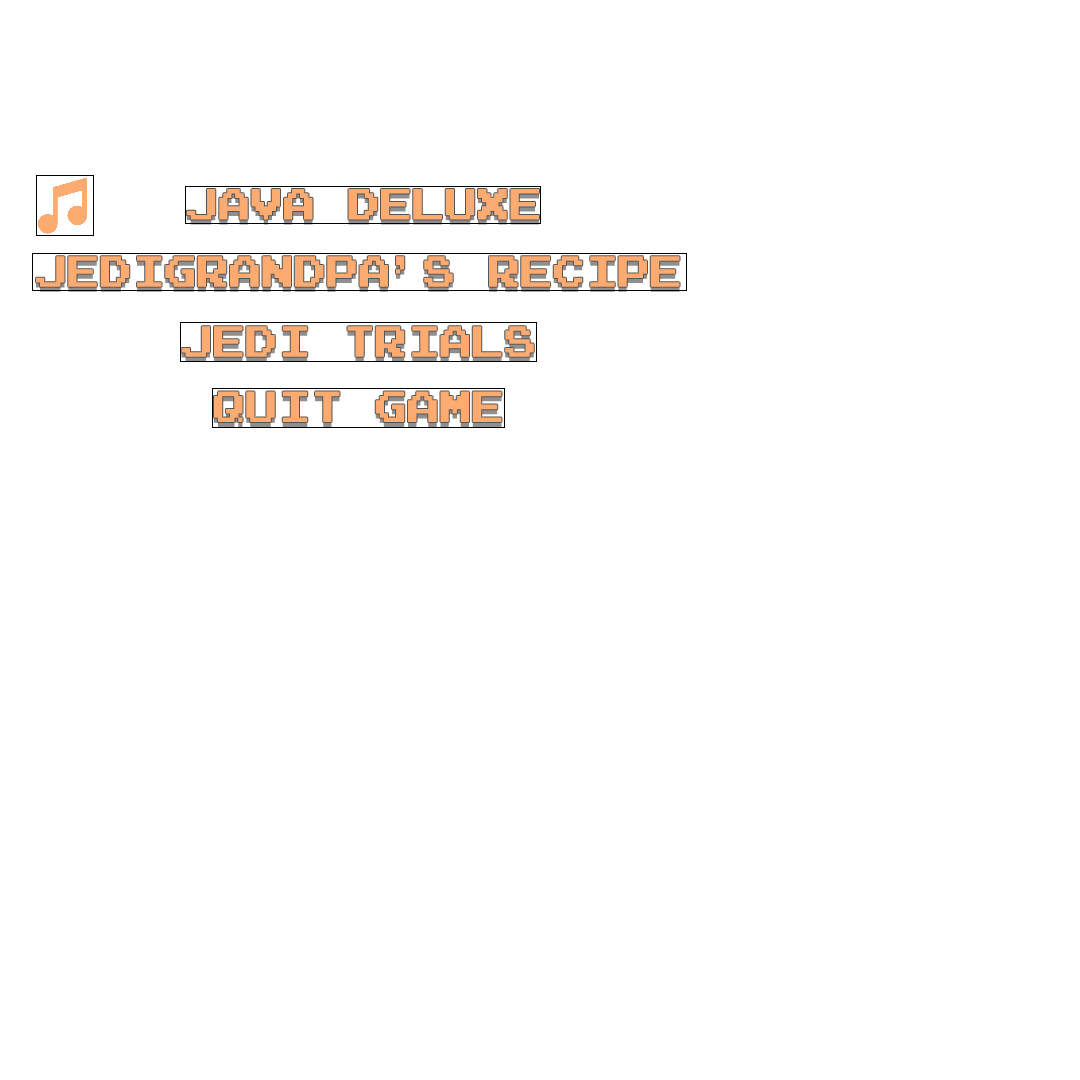
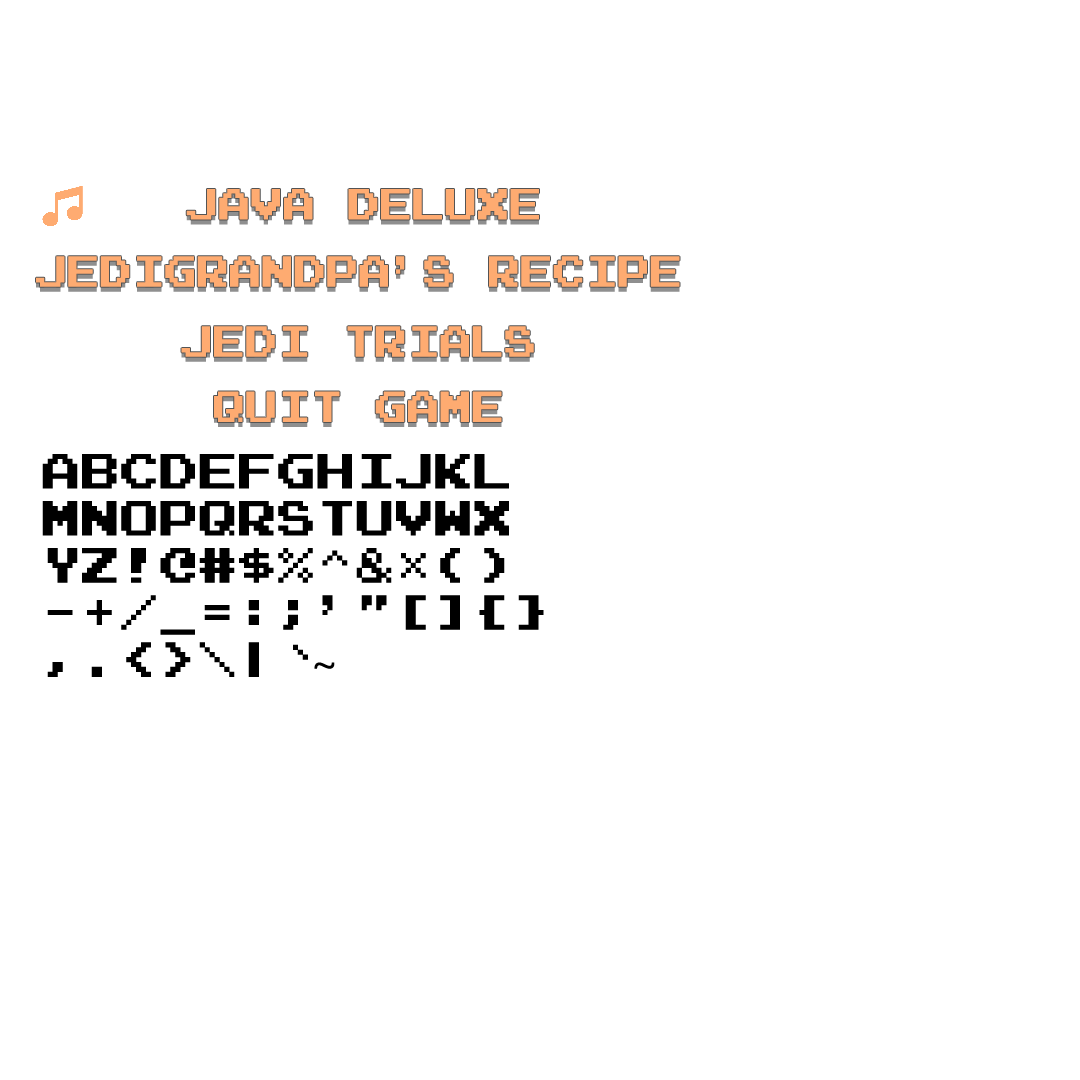
MainMenu State Update

Changed region(s): [[0.0306, 0.3972, 0.5194, 0.6417], [0.0306, 0.1528, 0.0917, 0.2139], [0.0306, 0.6111, 0.0611, 0.6417]]

diff --git a/core/src/com/codex/learning/states/MenuState.java b/core/src/com/codex/learning/states/MenuState.java
@@ -8,11 +8,13 @@ import com.badlogic.gdx.graphics.g2d.TextureRegion;
 import com.badlogic.gdx.physics.box2d.Box2DDebugRenderer;
 import com.codex.learning.utility.Constants;
 import com.codex.learning.utility.Manager;
+import com.sun.org.apache.bcel.internal.Const;
+import jdk.vm.ci.meta.Constant;
 
 public class MenuState extends State {
 
     private TextureRegion mainMenu;
-    private Texture musicLogo, javaDeluxe, grandpaRecipe, jediTrial, quitGame;
+    private TextureRegion musicLogo, javaDeluxe, grandpaRecipe, jediTrial, quitGame;
     private TextureRegion background;
     private OrthographicCamera camera;
     private Box2DDebugRenderer b2dr;
@@ -24,6 +26,12 @@ public class MenuState extends State {
 
         background = new TextureRegion(new Texture(Constants.BACKGROUND_PATH));
         mainMenu = new TextureRegion(new Texture(Constants.MENU_TEXT_PATH));
+
+        musicLogo = new TextureRegion(mainMenu, Constants.MUSIC_LOGO_X, Constants.MUSIC_LOGO_Y, Constants.MUSIC_LOGO_WIDTH, Constants.MUSIC_LOGO_HEIGHT);
+        javaDeluxe = new TextureRegion(mainMenu, Constants.JAVA_DELUXE_X, Constants.JAVA_DELUXE_Y, Constants.JAVA_DELUXE_WIDTH, Constants.JAVA_DELUXE_HEIGHT);
+        grandpaRecipe = new TextureRegion(mainMenu, Constants.GRANDPA_RECIPE_X, Constants.GRANDPA_RECIPE_Y, Constants.GRANDPA_RECIPE_WIDTH, Constants.GRANDPA_RECIPE_HEIGHT);
+        jediTrial = new TextureRegion(mainMenu, Constants.JEDI_TRIAL_X, Constants.JEDI_TRIAL_Y, Constants.JEDI_TRIAL_WIDTH, Constants.JEDI_TRIAL_HEIGHT);
+        quitGame = new TextureRegion(mainMenu, Constants.QUIT_GAME_X, Constants.QUIT_GAME_Y, Constants.QUIT_GAME_WIDTH, Constants.QUIT_GAME_HEIGHT);
 
     }
 
@@ -41,6 +49,15 @@ public class MenuState extends State {
         sprite.draw(background, 0, 0, (Constants.SCREEN_WIDTH - Constants.SCREEN_WIDTH / 2), (Constants.SCREEN_HEIGHT - Constants.SCREEN_HEIGHT / 2));
         sprite.end();
         sprite.enableBlending();
+
+        sprite.begin();
+        sprite.draw(javaDeluxe, 505, 221, Constants.JAVA_DELUXE_WIDTH / 2, Constants.JAVA_DELUXE_HEIGHT / 2);
+        sprite.draw(grandpaRecipe, 428, 189, Constants.GRANDPA_RECIPE_WIDTH / 2, Constants.GRANDPA_RECIPE_HEIGHT / 2);
+        sprite.draw(jediTrial, 503, 152, Constants.JEDI_TRIAL_WIDTH / 2, Constants.JEDI_TRIAL_HEIGHT / 2);
+        sprite.draw(quitGame, 518, 120, Constants.QUIT_GAME_WIDTH / 2, Constants.QUIT_GAME_HEIGHT / 2);
+        sprite.draw(musicLogo, 414, 115, Constants.MUSIC_LOGO_WIDTH / 2, Constants. MUSIC_LOGO_HEIGHT / 2);
+        sprite.end();
+
     }
 
     @Override

diff --git a/core/src/com/codex/learning/utility/Constants.java b/core/src/com/codex/learning/utility/Constants.java
@@ -13,12 +13,6 @@ public class Constants {
     // MAIN MENU ASSET PATH
     public static final String MENU_TEXT_PATH = "text/textsheet.png";
 
-    // MUSIC LOGO X, Y, WIDTH, HEIGHT
-    public static final int MUSIC_LOGO_X = 36;
-    public static final int MUSIC_LOGO_Y = 175;
-    public static final int MUSIC_LOGO_WIDTH = 57;
-    public static final int MUSIC_LOGO_HEIGHT = 60;
-
     // JAVA DELUXE X, Y, WIDTH, HEIGHT
     public static final int JAVA_DELUXE_X = 185;
     public static final int JAVA_DELUXE_Y = 186;
@@ -26,21 +20,27 @@ public class Constants {
     public static final int JAVA_DELUXE_HEIGHT = 37;
 
     // JEDIGRANDPA'S RECIPE X, Y, WIDTH, HEIGHT
-    public static final int GRANDPA_RECIPE_X = 32;
+    public static final int GRANDPA_RECIPE_X = 33;
     public static final int GRANDPA_RECIPE_Y = 253;
-    public static final int GRANDPA_RECIPE_WIDTH = 654;
+    public static final int GRANDPA_RECIPE_WIDTH = 653;
     public static final int GRANDPA_RECIPE_HEIGHT = 37;
 
     // JEDI TRIALS X, Y, WIDTH, HEIGHT
-    public static final int JEDI_TRIAL_X = 180;
+    public static final int JEDI_TRIAL_X = 181;
     public static final int JEDI_TRIAL_Y = 322;
-    public static final int JEDI_TRIAL_WIDTH = 356;
+    public static final int JEDI_TRIAL_WIDTH = 355;
     public static final int JEDI_TRIAL_HEIGHT = 39;
 
     // QUIT GAME X, Y, WIDTH, HEIGHT
-    public static final int QUIT_GAME_X = 212;
+    public static final int QUIT_GAME_X = 213;
     public static final int QUIT_GAME_Y = 388;
-    public static final int QUIT_GAME_WIDTH = 292;
+    public static final int QUIT_GAME_WIDTH = 291;
     public static final int QUIT_GAME_HEIGHT = 39;
+
+    // MUSIC LOGO X, Y, WIDTH, HEIGHT
+    public static final int MUSIC_LOGO_X = 36;
+    public static final int MUSIC_LOGO_Y = 174;
+    public static final int MUSIC_LOGO_WIDTH = 57;
+    public static final int MUSIC_LOGO_HEIGHT = 60;
 
 }
